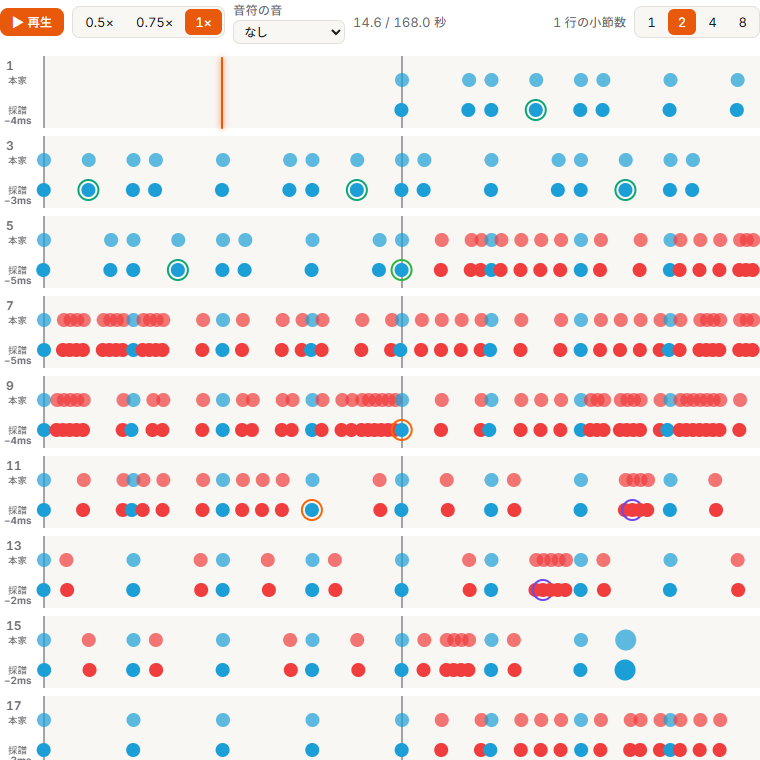
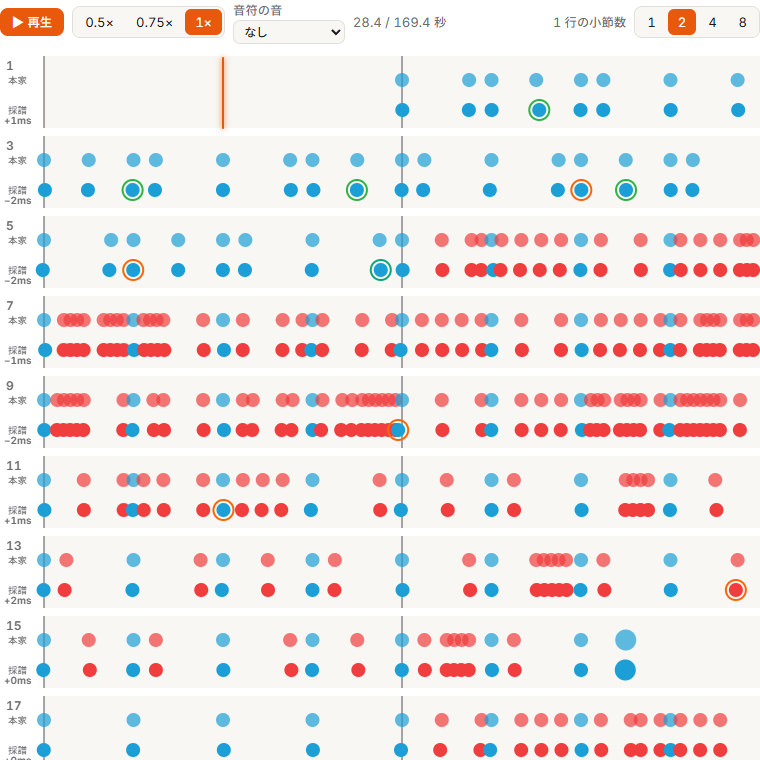
README の画像を自分の録画のものに差し替える

diff --git a/README.md b/README.md
@@ -41,8 +41,6 @@
 
 ### ブラウザの画面
 
-![画面全体](docs/ui.png)
-
 - 変換中は、読み取った音符が譜面の形で増えていく様子を見られます。
 - 終わると「譜面で見る」と「動画で見る」を切り替えられます。
 - 譜面で見るでは、既にある譜面と上下に並べて見比べます。1行の小節数を1・2・4・8から選べ、音符にマウスを乗せると時刻が出ます。再生ボタンで音を流すと、再生位置が譜面の上を動きます。音符の音（ドン・カッ）を鳴らすこともできます。
